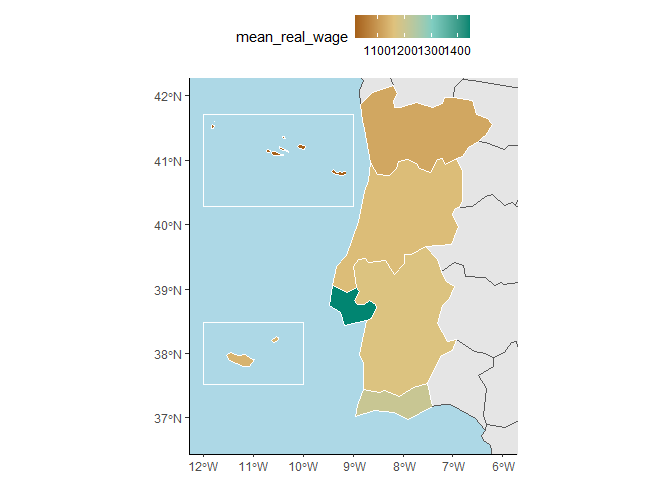
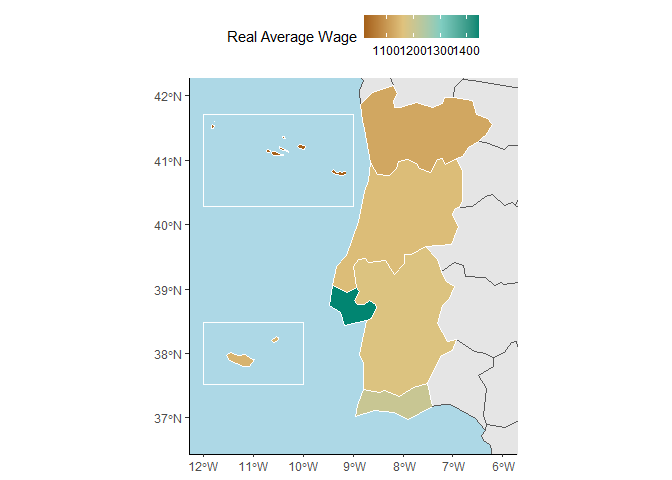
final? (readme)

Changed region(s): [[0.3125, 0.0312, 0.7188, 0.125]]

diff --git a/README.md b/README.md
@@ -2,18 +2,17 @@ Miguel Salema
 
 <!-- README.md is generated from README.Rmd. Please edit that file -->
 
-# peerest
+# ptmap
 
 <!-- badges: start -->
 <!-- badges: end -->
 
-The goal of peerest is to …
-
-Estimate peer effects in high-dimensional networks
+`ptmap` facilitates the creation of maps of Portuguese NUTs. For now, it
+only supports NUTs 2.
 
 ## Installation
 
-You can install the development version of peerest from
+You can install the development version of ptmap from
 [GitHub](https://github.com/) with:
 
 ``` r
@@ -29,8 +28,6 @@ This is a basic example which shows you how to solve a common problem:
 library(ptmap)
 #> Loading required package: sf
 #> Linking to GEOS 3.10.2, GDAL 3.4.1, PROJ 7.2.1; sf_use_s2() is TRUE
-## basic example code
-
 library(dplyr)
 #> Warning: package 'dplyr' was built under R version 4.1.3
 #> 
@@ -41,6 +38,8 @@ library(dplyr)
 #> The following objects are masked from 'package:base':
 #> 
 #>     intersect, setdiff, setequal, union
+library(ggplot2)
+
 data(qp_nut2_data) # load wage data from Portugal at NUT2 level
 
 # create a tibble with only one year, 2019.
@@ -55,9 +54,10 @@ map_pt_19 <- df19 %>%
 ```
 
 ``` r
-# can the figure show up?
-map_pt_19
+# The output is a ggplot map that can be easily altered
+map_pt_19 +
+  labs(fill = "Real Average Wage") # changes the title of legend
 ```
 
-<img src="man/figures/README-unnamed-chunk-3-1.png"
-style="width:100.0%" />
+<img src="man/figures/README-unnamed-chunk-3-1.png" style="width:100.0%"
+data-fig-pos="center" />
